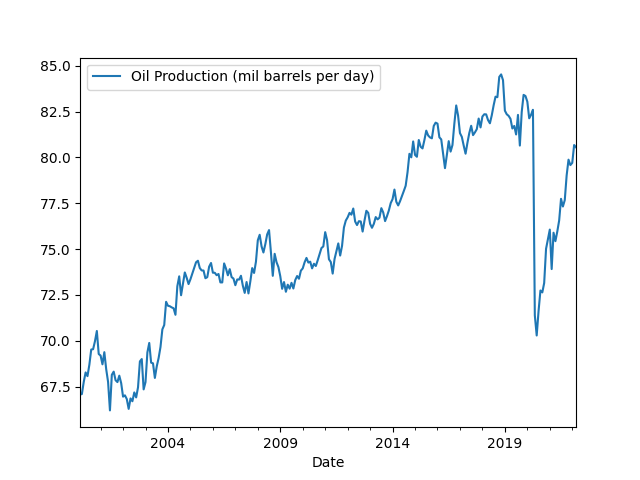
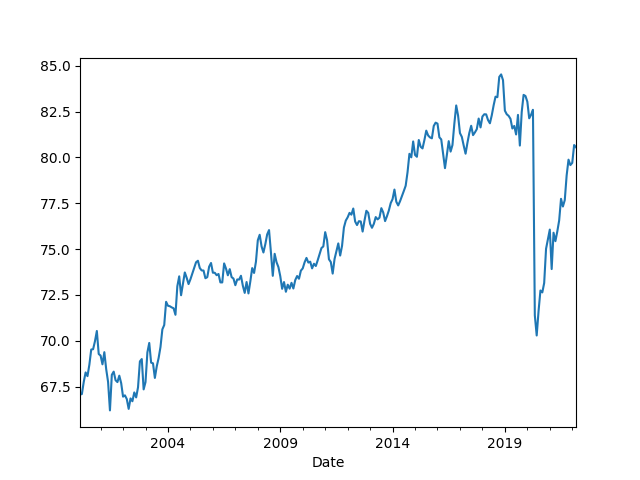
--

Changed region(s): [[0.1875, 0.125, 0.5938, 0.1875], [0.125, 0.1562, 0.1875, 0.1875]]

diff --git a/en/2019/05/energstats.md b/en/2019/05/energstats.md
@@ -29,11 +29,12 @@ Name: Close, dtype: float64
 
 <a name="worldoil"></a>
 
+Million barrels a day
+
 ```python
 import util; df = util.get_eia("INTL.57-1-WORL-TBPD.M");
 df = df[df.index > '2000-01-01'] / 1000.0
-df.plot(); plt.legend(['Oil Production (mil barrels per day)'])
-plt.savefig('worldoil.png')
+df.plot(); plt.savefig('worldoil.png')
 print (df.tail(4))
 ```
 
@@ -50,9 +51,10 @@ Name: 1, dtype: float64
 
 ### Opec Oil Production
 
+Million barrels a day
+
 ```python
 import util; df = util.get_eia("STEO.COPR_OPEC.M"); df.plot()
-plt.legend(['Oil Production (mil barrels per day)'])
 plt.savefig('opec.png')
 print (df.tail(4))
 ```
